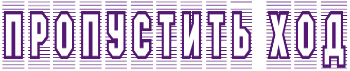
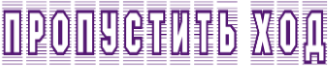
aaaaaaaaaaaaaaaaaaaaaaaaaaaaaaAAAAAAAAAaaAaaaaaAAAaaAaaaaaa

diff --git a/src/Rendzu/styles.css b/src/Rendzu/styles.css
@@ -8,7 +8,8 @@
 .button {
     -fx-background-image: url(Images/buttonSkip.png);
         -fx-background-repeat: stretch;
-        -fx-background-size: 350 71;
+        -fx-background-size: 330 67;
         -fx-background-position: center center;
 }
+
 

diff --git a/src/Rendzu/Controller.java b/src/Rendzu/Controller.java
@@ -12,6 +12,7 @@ public class Controller {
 
     public static Pane[][] panes = new Pane[15][15];
 
+
     public void setPanes() {
         panes[0][0] = p0000;
         panes[0][1] = p0001;
@@ -253,6 +254,7 @@ public class Controller {
         panes[14][13] = p1413;
         panes[14][14] = p1414;
     }
+
 
     public Label labelForWhosTurnToGo;
     private Board board;
